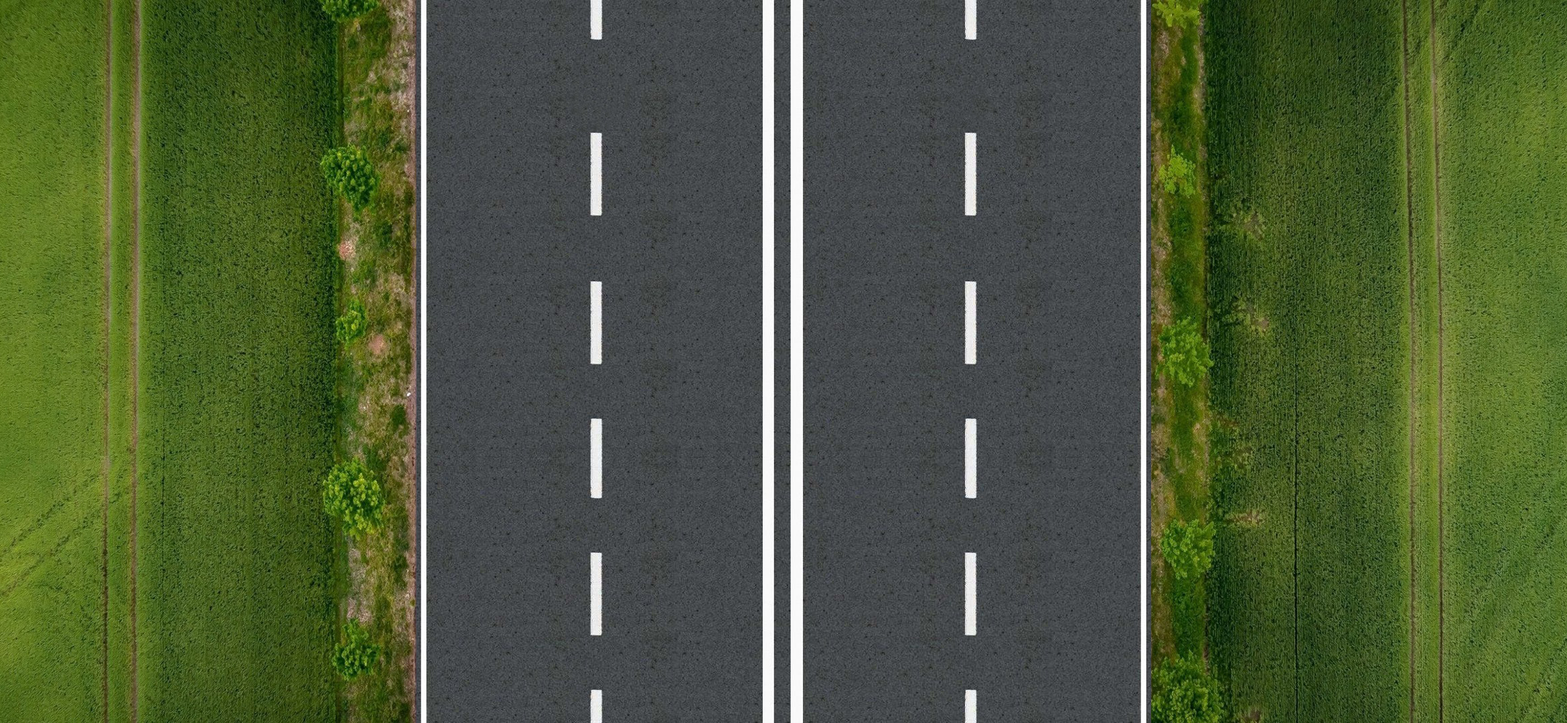
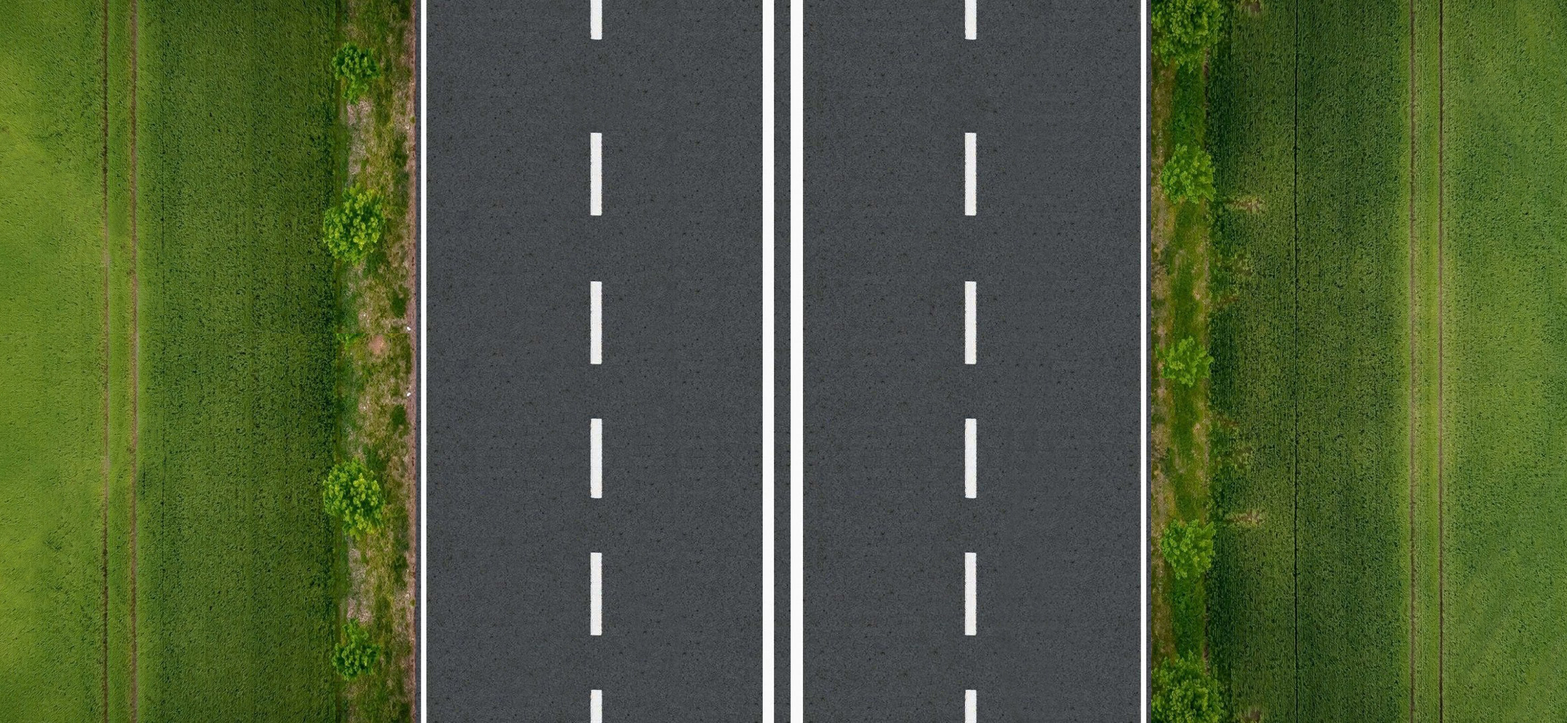
Исправление стыков и изменение очков

diff --git a/core/src/com/mygdx/game/Game.java b/core/src/com/mygdx/game/Game.java
@@ -27,7 +27,7 @@ public class Game implements Scene{
     int positionCar=700;
     boolean flag_right=false, flag_left=false;
     boolean flag_gas=false, flag_breake=false;
-    int score=0, scoreDop=0;
+    int score=0;
     public Game()
     {
         stage = new Stage(new ScreenViewport());
@@ -44,7 +44,7 @@ public class Game implements Scene{
         resultLabel.setPosition((int)(850*Gdx.graphics.getWidth() / 1080),(int)(2100*Gdx.graphics.getHeight() / 2400));
         stage.addActor(resultLabel);
 
-        score=0; scoreDop=0;
+        score=0;
         positionFon1=0; positionFon2=2400;
         positionCar=700;
         flag_right=false; flag_left=false;
@@ -129,29 +129,26 @@ public class Game implements Scene{
         stage.addActor(breakeButton);
     }
 
-    private void fonDraw()
-    {
+    private void fonDraw() {
         fon.begin();
-        fon.draw(field, 0,(int)(positionFon1*Gdx.graphics.getHeight() / 2400),
+        fon.draw(field, 0, (int) (positionFon1 * Gdx.graphics.getHeight() / 2400),
                 Gdx.graphics.getWidth(), Gdx.graphics.getHeight());
         fon.end();
 
         fon2.begin();
-        fon2.draw(field, 0,(int)(positionFon2*Gdx.graphics.getHeight() / 2400),
+        fon2.draw(field, 0, (int) (positionFon2 * Gdx.graphics.getHeight() / 2400),
                 Gdx.graphics.getWidth(), Gdx.graphics.getHeight());
         fon2.end();
 
-        positionFon1-=15;
-        positionFon2-=15;
-        if(positionFon1<-2405)
-            positionFon1=2400;
-        if(positionFon2<-2405)
-            positionFon2=2400;
+        positionFon1 -= 15;
+        positionFon2 -= 15;
+        if (positionFon1 < -2405)
+            positionFon1 = 2400;
+        if (positionFon2 < -2405)
+            positionFon2 = 2400;
 
-        scoreDop+=1;
-        if(scoreDop==100)
+        if(positionFon1==2400 || positionFon2==2400)
         {
-            scoreDop=0;
             score+=1;
             resultLabel.setText(""+score);
         }
